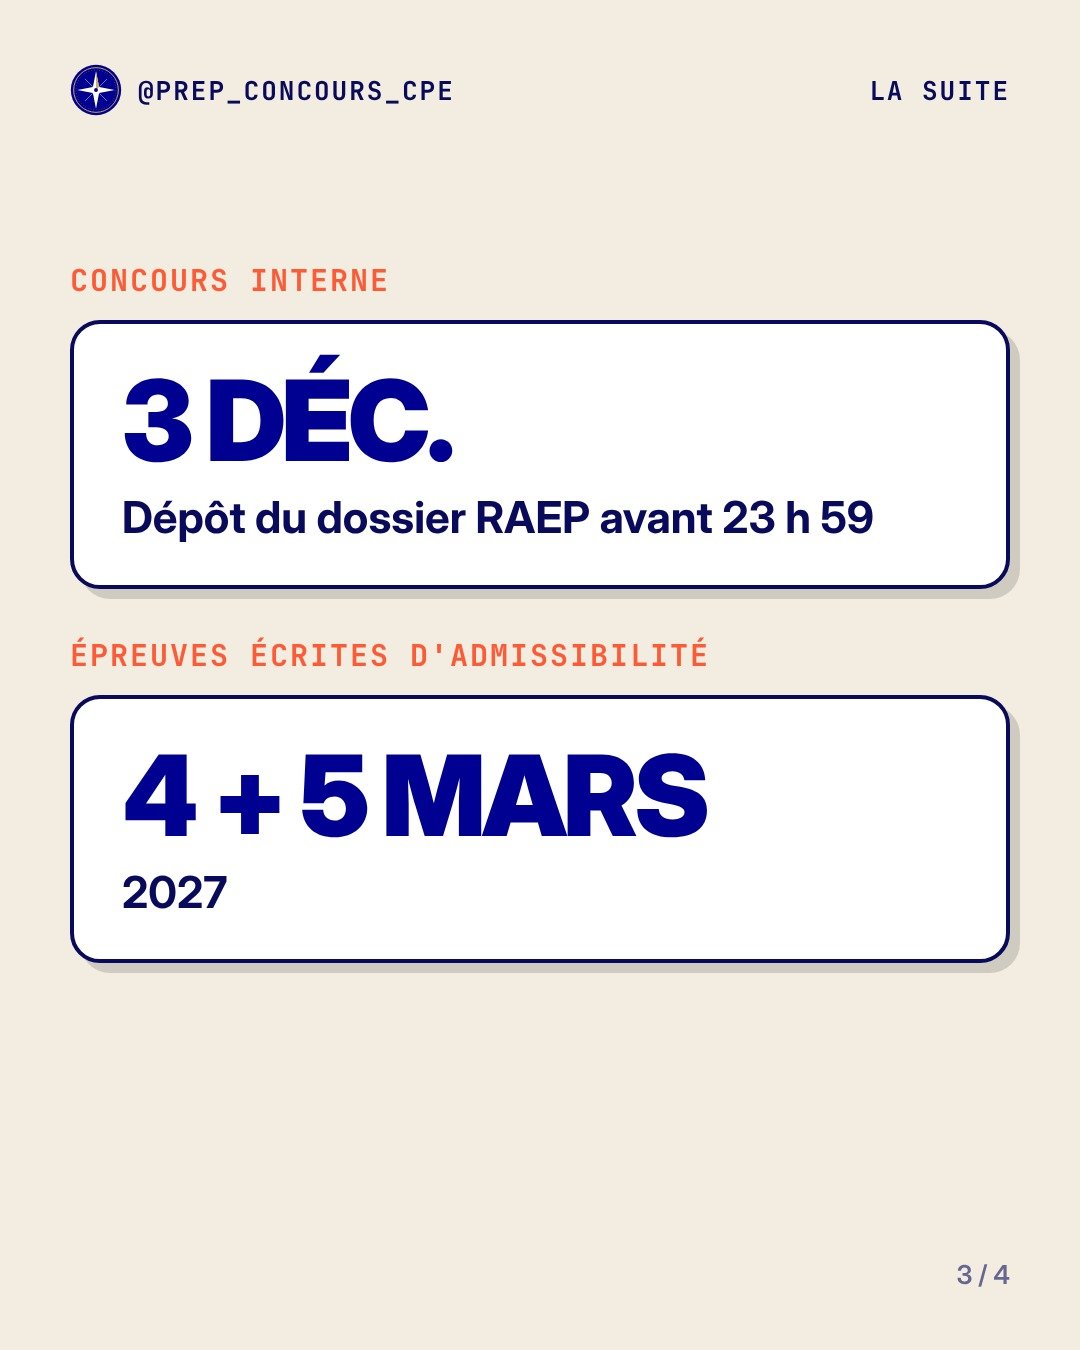
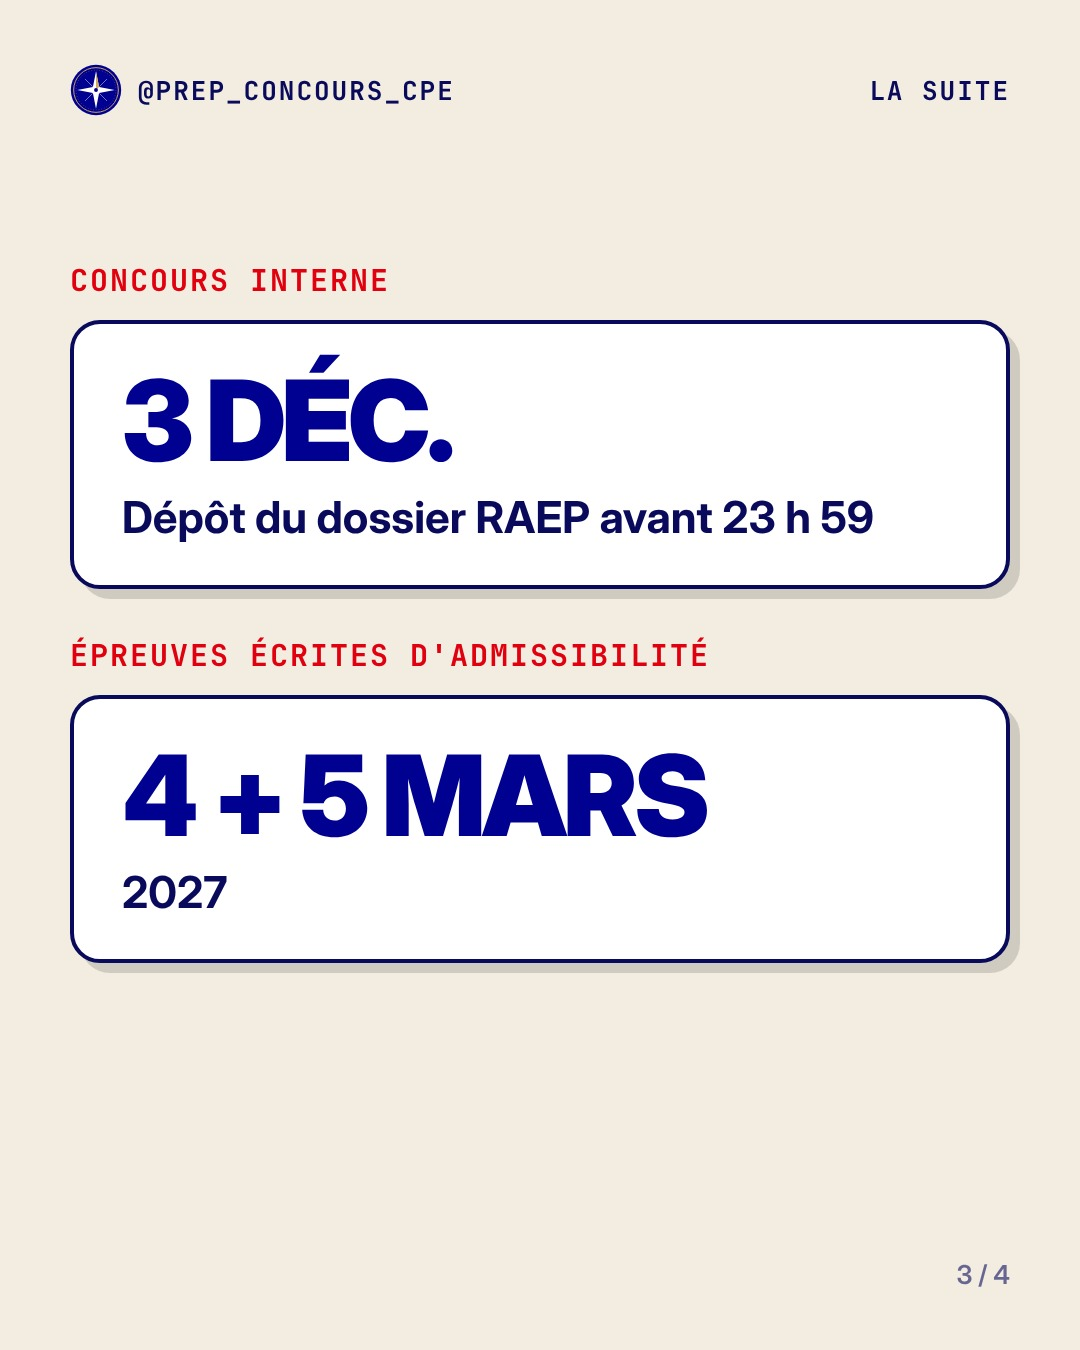
Palette du site pour le design A (bleu, doré, rouge) ; post des dates mis à jour
Claude-Session: https://claude.ai/code/session_01FvtqKUS35u5h1MsQGDj8Vv

Changed region(s): [[0.0611, 0.4667, 0.6722, 0.4978], [0.0611, 0.1867, 0.3667, 0.2178]]

diff --git a/tools/render.js b/tools/render.js
@@ -7,12 +7,12 @@ const logoRaw = fs.readFileSync(path.join(__dirname, 'logo.svg'), 'utf8').replac
 const posts = JSON.parse(fs.readFileSync(path.join(__dirname, 'posts.json'), 'utf8'));
 const OUT = path.join(__dirname, 'out');
 
-// s1 bleu, s2 crème, s3 nuit, s4 corail
+// s1 bleu (accent doré), s2 crème (accent rouge), s3 nuit (accent doré), s4 doré (accent bleu)
 const STYLES = {
-  s1: { bg: '#000091', fg: '#f3ede1', acc: '#ff5a36', muted: 'rgba(243,237,225,.78)', card: 'rgba(255,255,255,.10)', cardfg: '#f3ede1', cardb: 'rgba(243,237,225,.45)', onacc: '#fff', logoBg: '#f3ede1', logoFg: '#000091', logoGold: '#ff5a36' },
-  s2: { bg: '#f3ede1', fg: '#0a0a5c', acc: '#ff5a36', muted: '#55557f', card: '#ffffff', cardfg: '#0a0a5c', cardb: '#0a0a5c', onacc: '#fff', logoBg: '#000091', logoFg: '#fff', logoGold: '#d1ab55' },
-  s3: { bg: '#07074a', fg: '#f3ede1', acc: '#ffc94d', muted: 'rgba(243,237,225,.75)', card: 'rgba(255,255,255,.08)', cardfg: '#f3ede1', cardb: 'rgba(243,237,225,.4)', onacc: '#07074a', logoBg: '#f3ede1', logoFg: '#07074a', logoGold: '#ffc94d' },
-  s4: { bg: '#ff5a36', fg: '#0a0a5c', acc: '#000091', muted: '#3a1a40', card: '#ffffff', cardfg: '#0a0a5c', cardb: '#0a0a5c', onacc: '#fff', logoBg: '#000091', logoFg: '#fff', logoGold: '#d1ab55' },
+  s1: { bg: '#000091', fg: '#f3ede1', acc: '#d1ab55', muted: 'rgba(243,237,225,.78)', card: 'rgba(255,255,255,.10)', cardfg: '#f3ede1', cardb: 'rgba(243,237,225,.45)', onacc: '#000091', logoBg: '#f3ede1', logoFg: '#000091', logoGold: '#d1ab55' },
+  s2: { bg: '#f3ede1', fg: '#0a0a5c', acc: '#e1000f', muted: '#55557f', card: '#ffffff', cardfg: '#0a0a5c', cardb: '#0a0a5c', onacc: '#fff', logoBg: '#000091', logoFg: '#fff', logoGold: '#d1ab55' },
+  s3: { bg: '#07074a', fg: '#f3ede1', acc: '#d1ab55', muted: 'rgba(243,237,225,.75)', card: 'rgba(255,255,255,.08)', cardfg: '#f3ede1', cardb: 'rgba(243,237,225,.4)', onacc: '#07074a', logoBg: '#f3ede1', logoFg: '#07074a', logoGold: '#d1ab55' },
+  s4: { bg: '#d1ab55', fg: '#0a0a5c', acc: '#000091', muted: '#3a3320', card: '#ffffff', cardfg: '#0a0a5c', cardb: '#0a0a5c', onacc: '#fff', logoBg: '#000091', logoFg: '#fff', logoGold: '#d1ab55' },
 };
 
 const esc = s => String(s).replace(/&/g, '&amp;').replace(/</g, '&lt;').replace(/>/g, '&gt;');
